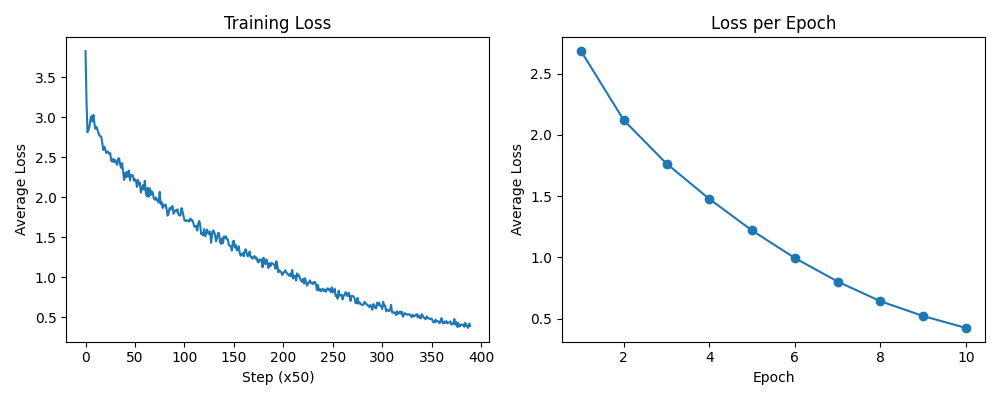
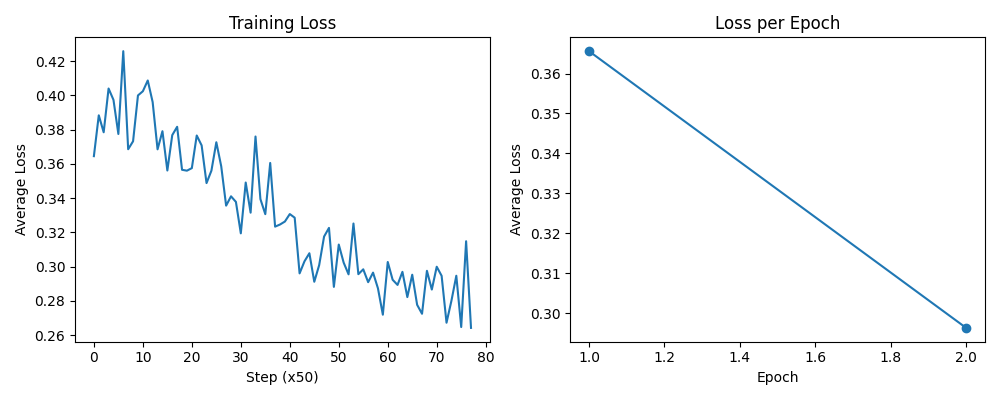
优化训练函数，支持断点续训和自定义总轮数

diff --git a/英译法/translate.py b/英译法/translate.py
@@ -324,8 +324,14 @@ def one_train(encoder_rnn,decoder_rnn,encoder_optimizer,decoder_optimizer,criter
     decoder_optimizer.step() # 更新解码器参数
     return loss.item()  # 已经是平均损失
 
-def train():
-    """训练模型"""
+def train(total_epochs=None, resume_from=0):
+    """训练模型
+
+    :param total_epochs: 总共要训到第几轮（默认用全局 epoch）
+    :param resume_from:  0 = 从头训；
+                         10 = 加载 model/*_10.pth 接着训，从第 11 轮开始存
+    """
+    total_epochs = epoch if total_epochs is None else total_epochs
     dataloader = my_dataloader(batch_size=BATCH_SIZE)                                     # ★ batch=32
     # ★ input_size 要 +1：词表末尾多出一行给 PAD；pad_idx 让那行不参与梯度
     encoder_rnn = EncoderRNN(input_size=english_words_count + 1, embd_dim=256,
@@ -334,9 +340,22 @@ def train():
                                     embd_dim=256, pad_idx=PAD_TOKEN_FR).to(device)
     encoder_optimizer = optim.Adam(encoder_rnn.parameters(), lr=my_lr)
     decoder_optimizer = optim.Adam(decoder_rnn.parameters(), lr=my_lr)
+
+    # ★ 断点续训：把已有权重灌进【同一个】模型对象，然后接着循环
+    if resume_from > 0:
+        enc_path = f"./model/encoder_rnn_{resume_from}.pth"
+        dec_path = f"./model/decoder_rnn_{resume_from}.pth"
+        encoder_rnn.load_state_dict(torch.load(enc_path, map_location=device))
+        decoder_rnn.load_state_dict(torch.load(dec_path, map_location=device))
+        print(f"★ 已加载第 {resume_from} 轮权重 → 从第 {resume_from + 1} 轮继续"
+              f"（目标第 {total_epochs} 轮）")
+    else:
+        print(f"★ 从头训练，共 {total_epochs} 轮")
+
     criterion = nn.CrossEntropyLoss(ignore_index=PAD_TOKEN_FR)                            # ★ 跳过 PAD
     loss_list, epoch_losses = [], []                                                      # ★ 两种粒度分开存
-    for e in range(epoch):
+    for e in range(total_epochs - resume_from):        # ★ 只跑剩下的轮数
+        real_epoch = resume_from + e + 1               # ★ 真实轮次编号（用于打印和存档）
         print_total_loss = 0.0
         plot_total_loss = 0.0
         total_loss = 0.0
@@ -348,7 +367,7 @@ def train():
             plot_total_loss += loss
             total_loss += loss
             if (i + 1) % print_interval_num == 0:
-                print(f"Epoch [{e+1}/{epoch}], Step [{i+1}/{len(dataloader)}], "
+                print(f"Epoch [{real_epoch}/{total_epochs}], Step [{i+1}/{len(dataloader)}], "
                       f"loss: {print_total_loss / print_interval_num:.4f}, "
                       f"Time: {time.time() - start_time:.2f}s")
                 print_total_loss = 0.0
@@ -357,9 +376,9 @@ def train():
                 plot_total_loss = 0.0
         avg_loss = total_loss / len(dataloader)
         epoch_losses.append(avg_loss)                                                     # 粗粒度：每轮（★ 别塞进 loss_list）
-        print(f"Epoch [{e+1}/{epoch}], Average Loss: {avg_loss:.4f}")
-        torch.save(encoder_rnn.state_dict(), f"./model/encoder_rnn_{e+1}.pth")
-        torch.save(decoder_rnn.state_dict(), f"./model/decoder_rnn_{e+1}.pth")
+        print(f"Epoch [{real_epoch}/{total_epochs}], Average Loss: {avg_loss:.4f}")
+        torch.save(encoder_rnn.state_dict(), f"./model/encoder_rnn_{real_epoch}.pth")
+        torch.save(decoder_rnn.state_dict(), f"./model/decoder_rnn_{real_epoch}.pth")
     # 绘制损失曲线：细粒度/粗粒度分开画
     plt.figure(figsize=(10, 4))
     plt.subplot(1, 2, 1)
@@ -414,9 +433,7 @@ if __name__ == "__main__":
     # test_encoder()
     # test_decoder_No_Attention()
     # test_decoder_Attention()
-    train()                 # ★ 先跑这个（batch=32，一轮约 0.7 分钟）
-
-    # 训练完再测翻译（checkpoint 必须是新架构训练出来的）
-    # test_sentences = ["we re in love .", "i am hungry .", "i am a student ."]
-    # for sentence in test_sentences:
-    #     print(f"English: {sentence} -> French: {evaluate(sentence)}")
+     train(50,10)  # ★ 从第 11 轮开始训到第 30 轮       
+    #  test_sentences = ["we re in love .", "i am hungry .", "i am a student ."]
+    #  for sentence in test_sentences:
+    #      print(f"English: {sentence} -> French: {evaluate(sentence,10)}")
